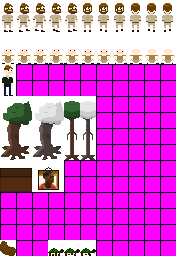
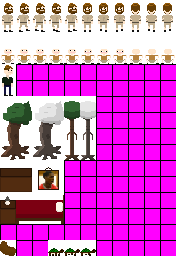
New building
also added beds and an action zone class

Changed region(s): [[0.0, 0.75, 0.3693, 0.875]]

diff --git a/ToadEngine/src/toad/game/entities/buildings/Building.java b/ToadEngine/src/toad/game/entities/buildings/Building.java
@@ -1,5 +1,6 @@
 package toad.game.entities.buildings;
 
+import java.awt.Color;
 import java.awt.Point;
 import java.awt.Rectangle;
 import java.awt.image.BufferedImage;
@@ -16,11 +17,12 @@ public class Building extends Entity {
 	public boolean inside = false;
 	public Level interior;
 	public Rectangle renderBounds;
+	Color transluscent = new Color(0, 0, 0, 50);
 
 	public Building(Level level, int x, int y, BufferedImage image, Level interior) {
 		super(level, x, y, image);
 		this.isSolid = true;
-		collider = new Rectangle(x, y + h - (33), 96, 33);
+		collider = new Rectangle(x, y + h - (33), w, 33);
 		System.out.println("y of building " + this.y);
 		renderBounds = new Rectangle(x, y, w, h);
 		this.interior = interior;
@@ -29,20 +31,20 @@ public class Building extends Entity {
 	@Override
 	public void update() {
 
-		if (interior == null || door == null) {
-			return;
-		}
-
 	}
 
 	public void render() {
 		if (GameState.camera.contains(this) && !renderBounds.contains(GameState.player.collider)) {
 			Main.g.drawImage(image, (x) - GameState.camera.x, (y) - GameState.camera.y, w, h, null);
+		} else if (GameState.camera.contains(this) && renderBounds.contains(GameState.player.collider)) {
+			Main.g.setColor(transluscent);
+			Main.g.fillRect(x - GameState.camera.x, y - GameState.camera.y, w, h);
 		}
 	}
 
-	//So it took me a while to figure out but this method is designed with the x + y coords 
-	//to make it customizeable as to where the door is relative to the building
+	// So it took me a while to figure out but this method is designed with the x +
+	// y coords
+	// to make it customizeable as to where the door is relative to the building
 	protected void makeStandardDoor(int x, int y) {
 		Rectangle doorRect = new Rectangle(this.x + x, this.y + this.h - y, 32, 1);
 		Rectangle door2 = new Rectangle(interior.width / 2 - 16, interior.height - 1, 32, 8);

diff --git a/ToadEngine/src/toad/game/entities/npcs/NPC_generic.java b/ToadEngine/src/toad/game/entities/npcs/NPC_generic.java
@@ -3,7 +3,7 @@ package toad.game.entities.npcs;
 import java.awt.image.BufferedImage;
 import java.util.Random;
 
-import toad.game.GameState;
+import toad.game.entities.ActionZone;
 import toad.game.entities.Mob;
 import toad.game.level.Level;
 import toad.ui.GameWindow;
@@ -11,21 +11,19 @@ import toad.ui.GameWindow;
 public class NPC_generic extends Mob {
 
 	GameWindow npcwindow;
+	ActionZone zone;
 
 	public NPC_generic(Level level, int x, int y, BufferedImage image, int dir, String[] message) {
 		super(level, x, y, image, dir);
 		name = genericNamer();
 		npcwindow = new GameWindow(name, message[0], 100, 80, null);
+		zone = new ActionZone(level, collider, npcwindow);
 	}
 
 	int iteration = 0;
 	@Override
 	public void update() {
-		if (hasCollided(GameState.player.collider)) {
-			if (!npcwindow.active) {
-				npcwindow.activate();
-			}
-		}
+		
 	}
 
 	public void setName(String name) {

diff --git a/ToadEngine/src/toad/game/entities/ActionZone.java b/ToadEngine/src/toad/game/entities/ActionZone.java
@@ -1,0 +1,41 @@
+package toad.game.entities;
+
+import java.awt.Rectangle;
+
+import toad.game.GameState;
+import toad.game.level.Level;
+import toad.ui.GameWindow;
+
+public class ActionZone extends Entity {
+	public Rectangle bounds;
+	public GameWindow gw;
+
+	public ActionZone(Level level, int x, int y, int w, int h, GameWindow gw) {
+		super(level, x, y, null);
+		bounds = new Rectangle(x, y, w, h);
+		this.x = x;
+		this.y = y;
+		this.w = w;
+		this.h = h;
+		this.gw = gw;
+	}
+
+	public ActionZone(Level level, Rectangle bounds, GameWindow gw) {
+		super(level, bounds.x, bounds.y, null);
+		this.bounds = bounds;
+		this.x = bounds.x;
+		this.y = bounds.y;
+		this.w = bounds.width;
+		this.h = bounds.height;
+		this.gw = gw;
+	}
+
+	@Override
+	public void update() {
+		if (bounds.intersects(GameState.player.collider)) {
+			if (!gw.active)
+				gw.activate();
+		}
+	}
+
+}

diff --git a/ToadEngine/src/toad/gfx/Assets.java b/ToadEngine/src/toad/gfx/Assets.java
@@ -31,11 +31,13 @@ public class Assets {
 
 	//Decor
 	public static final BufferedImage counter = entities.getImage(0, 160, 32, 32);
+	public static final BufferedImage bed = entities.getImage(16, 192, 48, 32);
 	
 	//Buildings
 	public static final BufferedImage shop = buildings.getImage(0, 0, 96, 80);
 	public static final BufferedImage pharmacy = buildings.getImage(96, 0, 96, 80);
 	public static final BufferedImage popostation = buildings.getImage(192, 0, 96, 80);
+	public static final BufferedImage apt_generic = buildings.getImage(0, 160, 96, 128);
 	public static final BufferedImage cabin = buildings.getImage(288, 0, 96, 80);
 
 }

diff --git a/ToadEngine/src/toad/game/level/interior/int_apartment.java b/ToadEngine/src/toad/game/level/interior/int_apartment.java
@@ -1,0 +1,22 @@
+package toad.game.level.interior;
+
+import java.awt.Rectangle;
+
+import toad.game.entities.ActionZone;
+import toad.game.entities.objects.Bed;
+import toad.game.level.Level;
+import toad.ui.GameWindow;
+
+public class int_apartment extends Level {
+
+	public int_apartment() {
+		super("/images/interior/int_apartment.png");
+	}
+
+	@Override
+	public void init() {
+		new ActionZone(this, new Rectangle(112, 47, 64, 54), new GameWindow("Bed", "Wanna sleep, eh bruh?", 100, 80, "Sleep"));
+		new Bed(this, 128, 55);
+	}
+
+}

diff --git a/ToadEngine/src/toad/game/level/lvl_bean.java b/ToadEngine/src/toad/game/level/lvl_bean.java
@@ -1,6 +1,7 @@
 package toad.game.level;
 
 import toad.game.entities.Player;
+import toad.game.entities.buildings.Apartment_generic;
 import toad.game.entities.buildings.Shop;
 import toad.game.entities.npcs.NPC_generic;
 import toad.gfx.Assets;
@@ -16,7 +17,7 @@ public class lvl_bean extends Level {
 		new NPC_generic(this, 126, 61, Assets.npc1, 0, new String[] {"Just chilling."}).setName("Chill guy");;
 		new Shop(this, 51, 0);
 		new Shop(this, 167, 0);
-		new Shop(this, 116, 203);
+		new Apartment_generic(this, 116, 155);
 	}
 
 }

diff --git a/ToadEngine/src/toad/game/entities/objects/GameObject.java b/ToadEngine/src/toad/game/entities/objects/GameObject.java
@@ -5,17 +5,15 @@ import java.awt.image.BufferedImage;
 import toad.game.entities.Entity;
 import toad.game.level.Level;
 
-public class GameObject extends Entity{
+public class GameObject extends Entity {
 
 	public GameObject(Level level, int x, int y, BufferedImage image) {
 		super(level, x, y, image);
-		// TODO Auto-generated constructor stub
+		this.isSolid = true;
 	}
 
 	@Override
 	public void update() {
-		// TODO Auto-generated method stub
-		
 	}
 
 }

diff --git a/ToadEngine/src/toad/game/entities/buildings/Apartment_generic.java b/ToadEngine/src/toad/game/entities/buildings/Apartment_generic.java
@@ -1,0 +1,14 @@
+package toad.game.entities.buildings;
+
+import toad.game.level.Level;
+import toad.game.level.interior.int_apartment;
+import toad.gfx.Assets;
+
+public class Apartment_generic extends Building{
+	
+	public Apartment_generic(Level level, int x, int y) {
+		super(level, x, y, Assets.apt_generic, new int_apartment());
+		makeStandardDoor(32, 0);
+	}
+	
+}

diff --git a/ToadEngine/src/toad/game/entities/Entity.java b/ToadEngine/src/toad/game/entities/Entity.java
@@ -24,8 +24,13 @@ public abstract class Entity {
 		this.image = image;
 		this.level = level;
 		level.entities.add(this);
-		w = image.getWidth();
-		h = image.getHeight();
+		if(image != null) {
+			w = image.getWidth();
+			h = image.getHeight();
+		} else {
+			w = 0;
+			h = 0;
+		}
 		collider = new Rectangle(x, y + 3 * (h / 4), w, h / 4);
 	}
 

diff --git a/ToadEngine/src/toad/game/entities/objects/Bed.java b/ToadEngine/src/toad/game/entities/objects/Bed.java
@@ -1,0 +1,15 @@
+package toad.game.entities.objects;
+
+import java.awt.Rectangle;
+
+import toad.game.level.Level;
+import toad.gfx.Assets;
+
+public class Bed extends GameObject{
+
+	public Bed(Level level, int x, int y) {
+		super(level, x, y, Assets.bed);
+		collider = new Rectangle(x, y + (h - 18), w, 18);
+	}
+
+}

diff --git a/ToadEngine/src/toad/game/level/interior/int_generic.java b/ToadEngine/src/toad/game/level/interior/int_generic.java
@@ -13,7 +13,7 @@ public class int_generic extends Level{
 
 	@Override
 	public void init() {
-		new NPC_generic(this, 10, 0, Assets.npc1, 2, new String[] {"..."});
+		new NPC_generic(this, 10, 0, Assets.npc1, 2, new String[] {"shopping be like"});
 	}
 
 }
